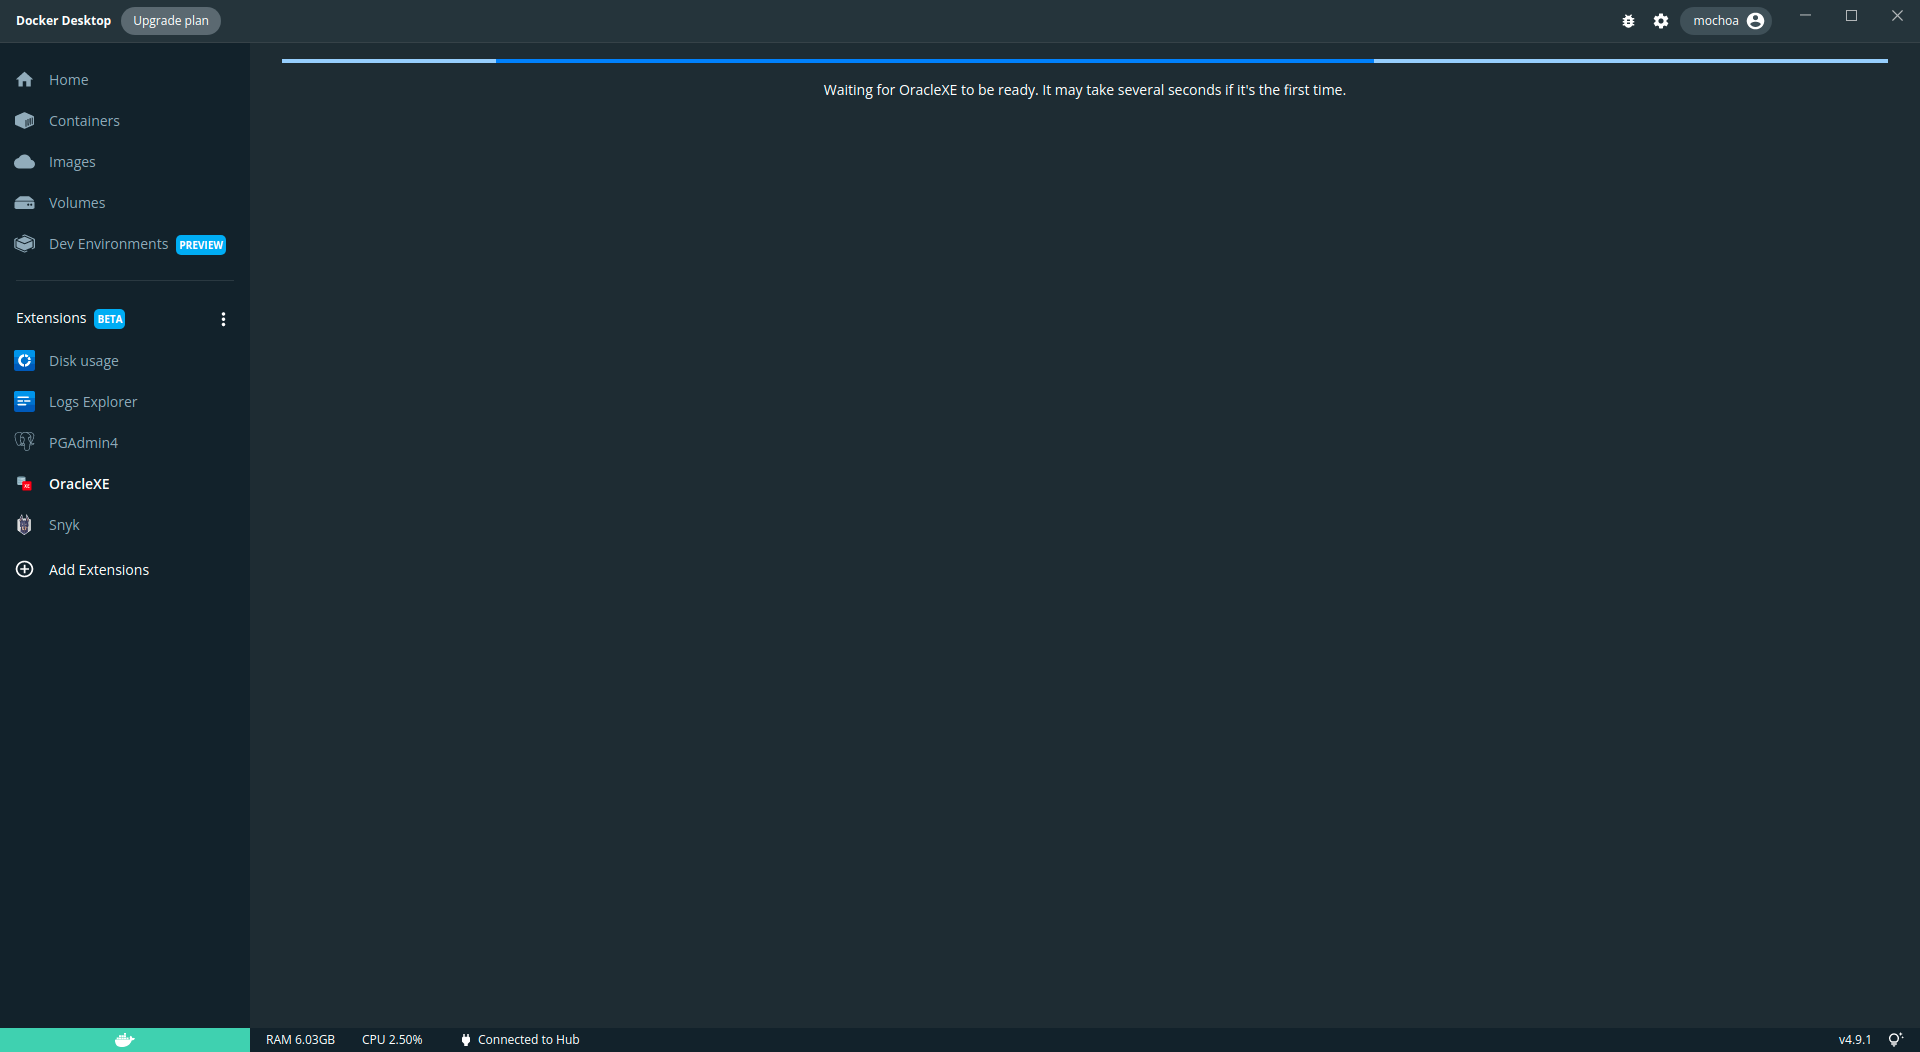
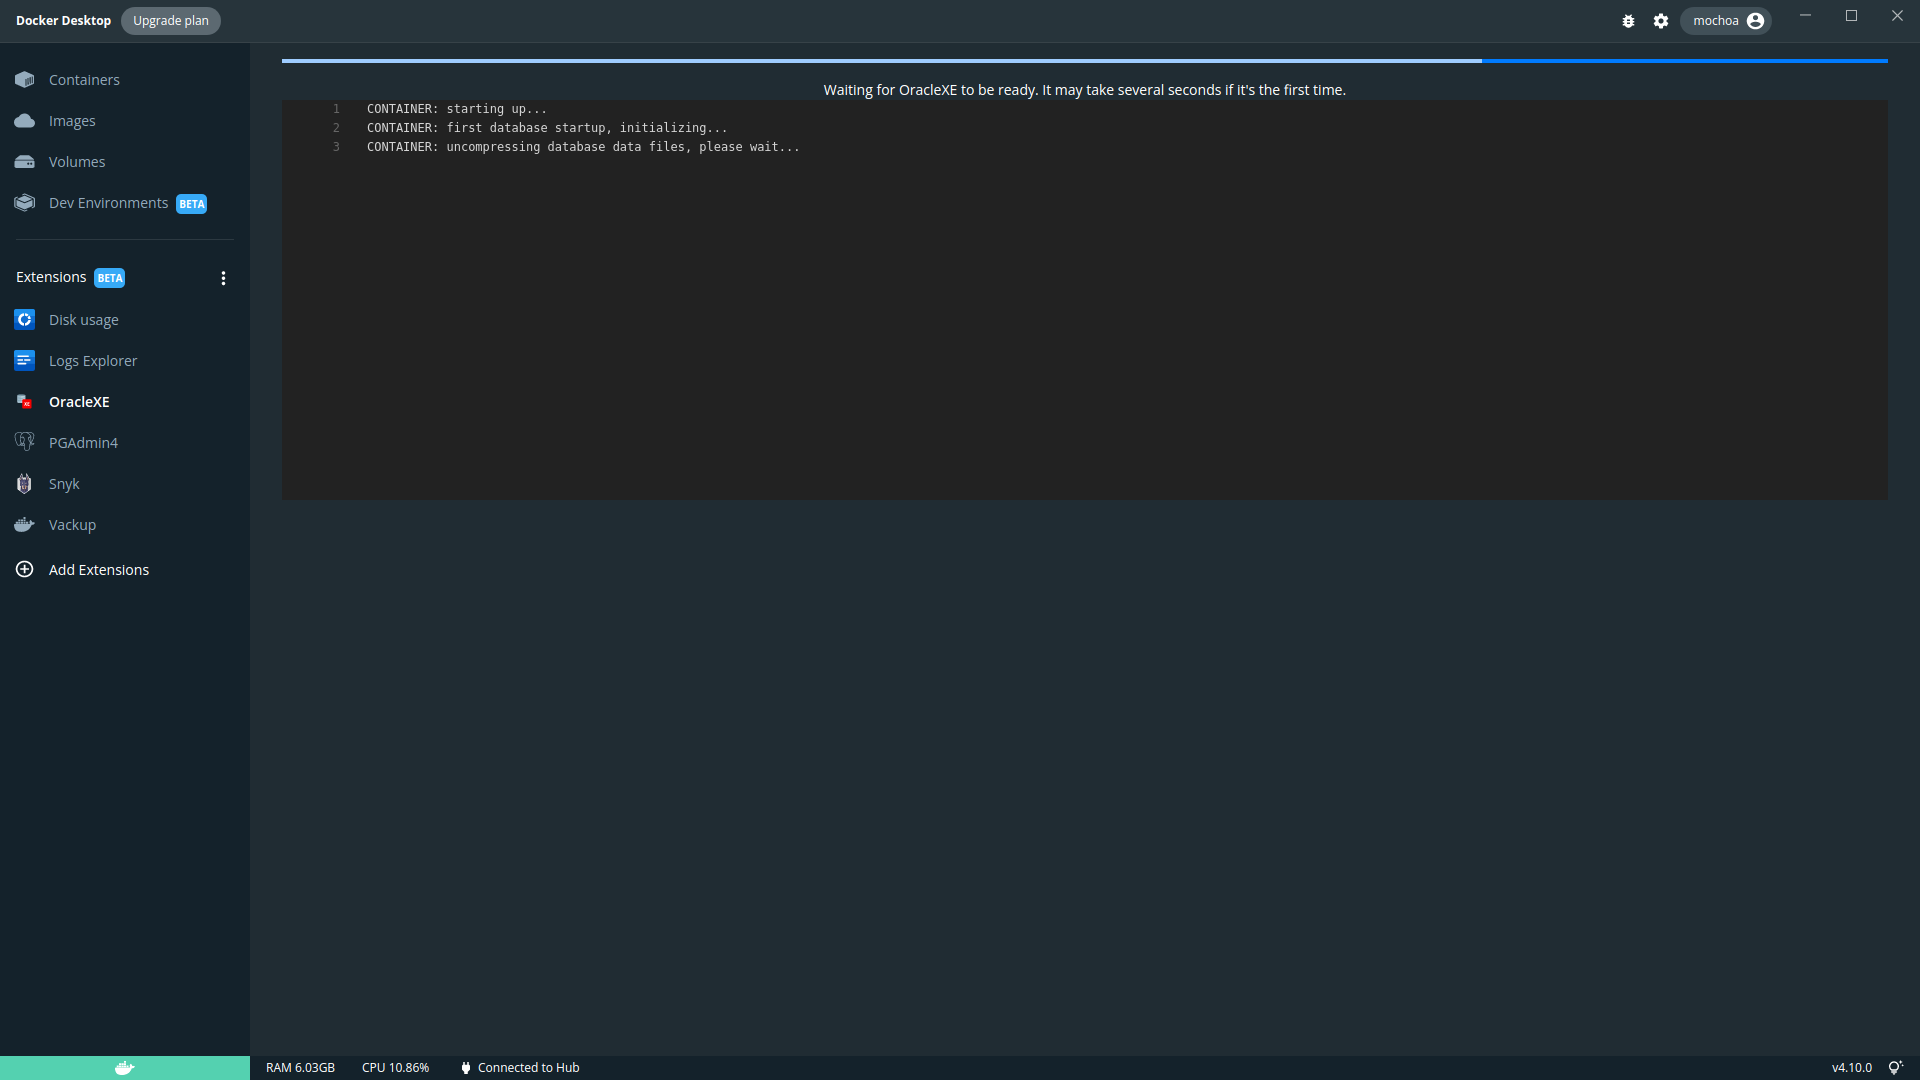
Added XE log during boot

diff --git a/client/src/App.tsx b/client/src/App.tsx
@@ -1,6 +1,7 @@
 import { useState, useEffect } from 'react';
 import { LinearProgress, Typography, Grid } from '@mui/material';
 import { createDockerDesktopClient } from '@docker/extension-api-client';
+import { LazyLog,ScrollFollow } from "react-lazylog";
 
 const client = createDockerDesktopClient();
 
@@ -8,18 +9,31 @@ function useDockerDesktopClient() {
   return client;
 }
 
+
 export function App() {
   const [ready, setReady] = useState<boolean>(false);
+  const [logs, setLogs] = useState<string>("fetching logs...");
   const ddClient = useDockerDesktopClient();
 
   useEffect(() => {
-    const checkIfOracleXEIsReady = async () => {
+    
+      const checkIfOracleXEIsReady = async () => {
       const result = await ddClient.extension.vm?.service?.get('/ready');
       const ready = Boolean(result);
       if (ready) {
         clearInterval(timer);
       }
       setReady(ready);
+      const xelog = await ddClient.docker.cli.exec("logs", [
+        "--tail",
+        "100",
+        "mochoa_oraclexe-docker-extension-desktop-extension-oraclexe-1"
+      ]);
+      if (xelog.stderr !== "") {
+        ddClient.desktopUI.toast.error(xelog.stderr);
+      } else {
+        setLogs(xelog.stdout);
+      }
     };
 
     let timer = setInterval(() => {
@@ -37,6 +51,7 @@ export function App() {
     }
   }, [ready]);
 
+
   return (
     <Grid container flex={1} direction="column" spacing={4}>
       <Grid item justifyContent="center" textAlign="center" minHeight="80px">
@@ -47,6 +62,14 @@ export function App() {
               Waiting for OracleXE to be ready. It may take several seconds if
               it's the first time.
             </Typography>
+            <div style={{ "textAlign": 'left', "height": 400, "width": "100%" }}>
+              <ScrollFollow
+                startFollowing
+                render={({ onScroll, follow, startFollowing, stopFollowing }) => (
+                  <LazyLog text={logs} stream follow={follow} />
+                )}
+              />
+            </div>
           </>
         )}
       </Grid>

diff --git a/README.md b/README.md
@@ -4,7 +4,7 @@ Oracle XE extension for Docker Desktop
 
 ## Manual Installation
 
-Until this extension is ready at Docker Extension Hub you can install just by executing:
+Until this extension is ready at Docker Extension Hub you can install with the [Extension CLI](https://docs.docker.com/desktop/extensions-sdk/#prerequisites):
 
 ```bash
 $ docker extension install mochoa/oraclexe-docker-extension:21.3.0
@@ -22,7 +22,7 @@ Extension "OracleXE" installed successfully
 
 **Note**: Docker Extension CLI is required to execute above command, follow the instructions at [Extension SDK (Beta) -> Prerequisites](https://docs.docker.com/desktop/extensions-sdk/#prerequisites) page for instructions on how to add it.
 
-**Note**: OracleXE Docker image is big, if you want a fast Docker Extension installation first execute:
+**Note**: OracleXE Docker image is big, is strongly recommended that first execute:
 
 ```bash
 docker pull gvenzl/oracle-xe:21.3.0-full
@@ -36,7 +36,7 @@ By clicking at OracleXE icon the extension main window will show this extension 
 
 ![Screenshot of the extension inside Docker Desktop](docs/images/screenshot0.png?raw=true)
 
-A progress indicator bar will wait until OracleXE is ready, first startup will take several seconds depending on your hardware. First click will ask you for the sys user password for OracleXE, 
+A progress indicator bar will wait until OracleXE is ready, first startup will take several seconds depending on your hardware. First click will ask you for the sys user password for OracleXE,
 
 ![Login Screenshot](docs/images/screenshot1.png?raw=true)
 
